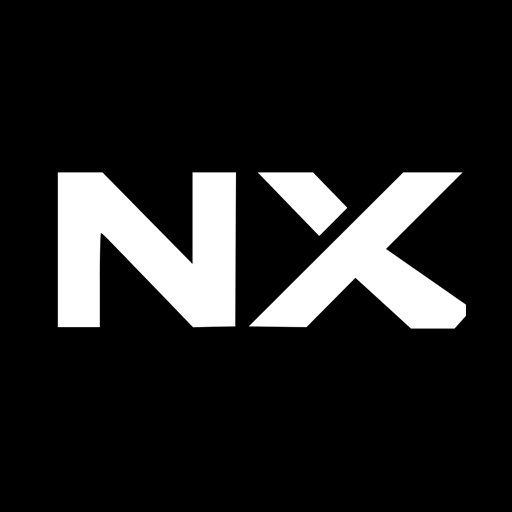
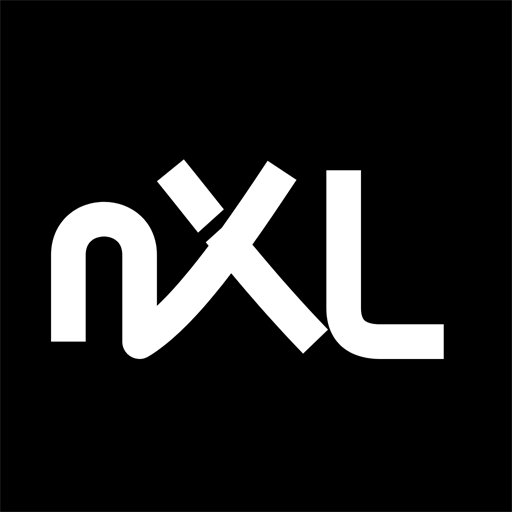
Ship the final NX LIMIT identity across the app

Changed region(s): [[0.0938, 0.3125, 0.9375, 0.7188]]

diff --git a/src/App.css b/src/App.css
@@ -4209,7 +4209,7 @@ body {
   right: 8px;
   width: 22px;
   height: 22px;
-  background-image: url("/icon-192.png");
+  background-image: url("/brand/nxl-monogram-black.svg");
   background-size: contain;
   background-repeat: no-repeat;
   background-position: center;
@@ -11925,9 +11925,8 @@ input[type="date"]:disabled::-webkit-calendar-picker-indicator {
 /* Uniform Warm App Grey (#E8E6DF) on every Overview section header. */
 .overviewGrid > .profileCard .profileMetricsHeader { background: #e8e6df !important; }
 
-/* Sidebar brand: white NØLIMIT wordmark on a black plate with a hand-set
-   "Built for Training" tagline beneath. Collapses to the white NL monogram on
-   the hover-narrowed desktop rail. */
+/* Sidebar brand: refined NX//LIMIT wordmark with the "Built for Training"
+   signature beneath. The narrow desktop rail uses the transparent NXL mark. */
 .brandPlate {
   display: flex;
   flex-direction: column;
@@ -11946,6 +11945,10 @@ input[type="date"]:disabled::-webkit-calendar-picker-indicator {
 .brandPlate .brandWordmarkImg {
   max-width: 168px;
   filter: drop-shadow(0 5px 12px rgba(18, 18, 16, 0.1));
+}
+
+.app:not(.clientPortalApp) .sidebar .brandTagline {
+  color: #292822;
 }
 
 /* thin gold hairline between wordmark and tagline for a sealed, premium feel */
@@ -13291,7 +13294,22 @@ input[type="date"]:disabled::-webkit-calendar-picker-indicator {
   backdrop-filter: blur(14px);
   border-bottom: 1px solid rgba(14, 14, 13, 0.08);
 }
+.lv3Brand {
+  display: inline-flex;
+  flex-direction: column;
+  align-items: center;
+  gap: 4px;
+}
 .lv3Brand img { height: 32px; display: block; }
+.lv3BrandTagline {
+  color: #5f5d56;
+  font-size: 8px;
+  font-weight: 750;
+  letter-spacing: 0.18em;
+  line-height: 1;
+  text-transform: uppercase;
+  white-space: nowrap;
+}
 .lv3NavLinks { display: flex; gap: 28px; }
 .lv3NavLinks a { color: #44443e; font-weight: 600; font-size: 0.95rem; }
 .lv3NavLinks a:hover { color: #0e0e0d; }
@@ -13735,15 +13753,17 @@ input[type="date"]:disabled::-webkit-calendar-picker-indicator {
      off-screen (page overflowed ~37px at 390px). */
   .lv3Nav { gap: 10px; padding: 12px 14px; }
   .lv3Brand img { height: 24px; }
+  .lv3BrandTagline { font-size: 6px; letter-spacing: 0.13em; }
   .lv3Lang span { padding: 5px 9px; font-size: 0.72rem; }
   .lv3NavCta { padding: 8px 13px; font-size: 0.8rem; white-space: nowrap; }
 }
 
 @media (max-width: 374px) {
-  /* The NØLIMIT wordmark is ~6.4:1 wide — at 20px tall it alone eats 129px
-     of a 320px row, so everything steps down another notch here. */
+  /* The NX//LIMIT wordmark is wide, so compact controls step down another
+     notch here to keep the full 320px navigation row in view. */
   .lv3Nav { gap: 6px; padding: 10px 8px; }
   .lv3Brand img { height: 20px; }
+  .lv3BrandTagline { font-size: 5.5px; }
   .lv3Lang span { padding: 4px 7px; font-size: 0.68rem; }
   .lv3NavCta { padding: 7px 10px; font-size: 0.74rem; }
 }

diff --git a/src/App.tsx b/src/App.tsx
@@ -39,7 +39,11 @@ import {
 } from "react";
 import { useTranslation } from "react-i18next";
 import "./App.css";
-import { BRAND_LOGO_48, BRAND_WORDMARK_48 } from "./brandAssets";
+import {
+  BRAND_MONOGRAM_BLACK,
+  BRAND_MONOGRAM_WHITE,
+  BRAND_WORDMARK_BLACK,
+} from "./brandAssets";
 
 // Charts are lazy-loaded so recharts stays out of the main bundle.
 const RevenueChart = lazy(() => import("./RevenueChart"));
@@ -13943,7 +13947,7 @@ function App({ onReady }: { onReady?: () => void } = {}) {
         draw();
       };
       logo.onerror = () => draw();
-      logo.src = BRAND_LOGO_48;
+      logo.src = BRAND_MONOGRAM_BLACK;
     });
 
   const openFinisherCard = async (payload: {
@@ -18442,7 +18446,7 @@ function App({ onReady }: { onReady?: () => void } = {}) {
         <section className="clientPortalEmpty">
           <div className="brandWordmark brandLogoLockup">
             <img
-              src={BRAND_LOGO_48}
+              src={BRAND_WORDMARK_BLACK}
               alt="NX LIMIT Training"
               className="brandWordmarkImage"
             />
@@ -19197,14 +19201,14 @@ function App({ onReady }: { onReady?: () => void } = {}) {
         <div className="brand">
           <div className="brandPlate">
             <img
-              src={BRAND_WORDMARK_48}
+              src={BRAND_WORDMARK_BLACK}
               alt="NX LIMIT Training"
               className="brandWordmarkImg"
             />
             <span className="brandTagline">Built for Training</span>
           </div>
           <img
-            src="/icon-192.png"
+            src={BRAND_MONOGRAM_BLACK}
             alt="NX LIMIT"
             className="brandCollapsedSeal"
           />
@@ -19326,7 +19330,7 @@ function App({ onReady }: { onReady?: () => void } = {}) {
             }
           >
             <div className="avatar monogramAvatar">
-              <img src="/icon-192.png" alt="" aria-hidden="true" />
+              <img src={BRAND_MONOGRAM_WHITE} alt="" aria-hidden="true" />
             </div>
             <div className="coachBoxMeta">
               <strong>
@@ -21262,7 +21266,7 @@ function App({ onReady }: { onReady?: () => void } = {}) {
                     ))}
                   </div>
                   <div className="workoutSummaryCrest">
-                    <img src="/icon-192.png" alt="" />
+                    <img src={BRAND_MONOGRAM_WHITE} alt="" />
                   </div>
                   <h2 className="workoutSummaryTitle">
                     {paceZh ? "训练完成" : "Workout Complete"}

diff --git a/src/StorePage.tsx b/src/StorePage.tsx
@@ -28,7 +28,7 @@ import "@fontsource/inter/600.css";
 import "@fontsource/inter/700.css";
 import "./StorePage.css";
 import "./StorePageV3.css";
-import { BRAND_WORDMARK_48 } from "./brandAssets";
+import { BRAND_MONOGRAM_WHITE, BRAND_WORDMARK_BLACK } from "./brandAssets";
 import { reportClientEvent } from "./telemetry";
 import type { Client, Coach, Program, ProgramReview, Toast } from "./appCore";
 import { glanceRepsToken } from "./appCore";
@@ -422,7 +422,7 @@ export default function StorePage({
 
       <nav className="storeNavV3">
         <a className="storeBrandV3" href="/">
-          <img src={BRAND_WORDMARK_48} alt="NX LIMIT Training" />
+          <img src={BRAND_WORDMARK_BLACK} alt="NX LIMIT Training" />
         </a>
         <div className="storeNavLinksV3">
           <a href="#featured" className="storeNavLinkV3">{sZh ? "计划" : "Programs"}</a>
@@ -1412,7 +1412,7 @@ export default function StorePage({
                     <img src={sp.productImage} alt={spName} />
                   ) : (
                     <div className="storeModalFallbackV2">
-                      <img src="/icon-192.png" alt="NX LIMIT" />
+                      <img src={BRAND_MONOGRAM_WHITE} alt="NX LIMIT" />
                     </div>
                   )}
                 </div>
@@ -1981,7 +1981,7 @@ export default function StorePage({
       })()}
 
       <footer className="storeFooterV3">
-        <img src={BRAND_WORDMARK_48} alt="NX LIMIT Training" />
+        <img src={BRAND_WORDMARK_BLACK} alt="NX LIMIT Training" />
         <div className="storeFooterLinksV3">
           <a href="#catalog">{sZh ? "计划" : "Programs"}</a>
           <a href="#coach">{sZh ? "教练" : "Coaching"}</a>

diff --git a/src/brandAssets.ts b/src/brandAssets.ts
@@ -1,11 +1,6 @@
-// Canonical 48-degree identity assets. Vite fingerprints these source vectors
-// for production while keeping the editable masters in the branding folder.
-export const BRAND_LOGO_48 = new URL(
-  "../branding/Source vector files/NX LIMIT Training Lean 48 Trial.svg",
-  import.meta.url,
-).href;
-
-export const BRAND_WORDMARK_48 = new URL(
-  "../branding/Source vector files/NX LIMIT Small-Use Lean 48 Trial.svg",
-  import.meta.url,
-).href;
+// Final production identity. Keep both tonal variants explicit so transparent
+// artwork can sit naturally on light and dark UI without a boxed background.
+export const BRAND_MONOGRAM_BLACK = "/brand/nxl-monogram-black.svg";
+export const BRAND_MONOGRAM_WHITE = "/brand/nxl-monogram-white.svg";
+export const BRAND_WORDMARK_BLACK = "/brand/nx-limit-wordmark-black.svg";
+export const BRAND_WORDMARK_WHITE = "/brand/nx-limit-wordmark-white.svg";

diff --git a/src/CoachingFlowPage.tsx b/src/CoachingFlowPage.tsx
@@ -7,7 +7,7 @@
 import { useEffect, useMemo, useState } from "react";
 import "./CoachingFlowPage.css";
 import { reportClientEvent } from "./telemetry";
-import { BRAND_WORDMARK_48 } from "./brandAssets";
+import { BRAND_WORDMARK_BLACK } from "./brandAssets";
 import { makePaymentCode } from "./appCore";
 
 type Step = "commitment" | "qualifier" | "payment" | "onboarding" | "done";
@@ -252,7 +252,7 @@ export default function CoachingFlowPage() {
         {/* top bar */}
         <div className="cfpTop">
           <div className="cfpBrand">
-            <img className="cfpLogo" src={BRAND_WORDMARK_48} alt="NX LIMIT Training" />
+            <img className="cfpLogo" src={BRAND_WORDMARK_BLACK} alt="NX LIMIT Training" />
             <span className="cfpBadge">{t("1:1 COACHING", "一对一私教")}</span>
           </div>
           <div className="cfpTopRight">

diff --git a/src/LandingPage.tsx b/src/LandingPage.tsx
@@ -19,7 +19,7 @@ import {
   type Variants,
 } from "framer-motion";
 import type { Program, Toast } from "./appCore";
-import { BRAND_WORDMARK_48 } from "./brandAssets";
+import { BRAND_WORDMARK_BLACK } from "./brandAssets";
 
 // Confident, weighty easing (ease-out-expo) — reads as strong, not bouncy.
 const EASE: [number, number, number, number] = [0.16, 1, 0.3, 1];
@@ -251,7 +251,8 @@ export default function LandingPage({
         transition={{ duration: 0.6, ease: EASE }}
       >
         <a className="lv3Brand" href="/">
-          <img src={BRAND_WORDMARK_48} alt="NX LIMIT Training" />
+          <img src={BRAND_WORDMARK_BLACK} alt="NX LIMIT" />
+          <span className="lv3BrandTagline">Built for Training</span>
         </a>
         <nav className="lv3NavLinks">
           <a href="/store">{landingCopy.navPrograms}</a>

diff --git a/src/PortalWelcome.tsx b/src/PortalWelcome.tsx
@@ -1,6 +1,6 @@
 // Post-intake welcome / program-loading overlay. Extracted from App.tsx.
 import "./PortalWelcome.css";
-import { BRAND_LOGO_48 } from "./brandAssets";
+import { BRAND_MONOGRAM_BLACK } from "./brandAssets";
 /* eslint-disable @typescript-eslint/no-explicit-any */
 
 export default function PortalWelcome({
@@ -28,7 +28,7 @@ export default function PortalWelcome({
       </div>
       <section className="portalWelcome">
         <div className="portalWelcomeBrand">
-          <img src={BRAND_LOGO_48} alt="NX LIMIT Training" className="portalWelcomeMonogram" />
+          <img src={BRAND_MONOGRAM_BLACK} alt="NX LIMIT" className="portalWelcomeMonogram" />
         </div>
 
         {portalAutoLoading ? (

diff --git a/src/InPersonEnquiryPage.tsx b/src/InPersonEnquiryPage.tsx
@@ -1,7 +1,7 @@
 // Extracted from App.tsx (monolith split) — JSX verbatim, props threaded.
 import "./InPersonEnquiryPage.css";
 import { useState } from "react";
-import { BRAND_LOGO_48 } from "./brandAssets";
+import { BRAND_WORDMARK_BLACK } from "./brandAssets";
 /* eslint-disable @typescript-eslint/no-explicit-any */
 
 export default function InPersonEnquiryPage({
@@ -32,7 +32,7 @@ export default function InPersonEnquiryPage({
           <div>
             <div className="brandWordmark brandLogoLockup">
               <img
-                src={BRAND_LOGO_48}
+                src={BRAND_WORDMARK_BLACK}
                 alt="NX LIMIT Training"
                 className="brandWordmarkImage"
               />

diff --git a/src/LegalPage.tsx b/src/LegalPage.tsx
@@ -1,6 +1,6 @@
 import { ArrowLeft, ShieldCheck } from "lucide-react";
 import "./LegalPage.css";
-import { BRAND_WORDMARK_48 } from "./brandAssets";
+import { BRAND_WORDMARK_BLACK } from "./brandAssets";
 
 type LegalKind = "privacy" | "terms" | "refund" | "business";
 
@@ -38,7 +38,7 @@ export default function LegalPage({
     <div className={`legalPage ${zh ? "zh" : "en"}`}>
       <header className="legalNav">
         <a className="legalBrand" href="/">
-          <img src={BRAND_WORDMARK_48} alt="NX LIMIT Training" />
+          <img src={BRAND_WORDMARK_BLACK} alt="NX LIMIT Training" />
         </a>
         <div className="legalNavActions">
           <a href="/store">{zh ? "训练计划" : "Programs"}</a>

diff --git a/src/ClientInvitePage.tsx b/src/ClientInvitePage.tsx
@@ -1,7 +1,7 @@
 // Extracted from App.tsx (monolith split) — JSX verbatim, props threaded.
 import "./ClientInvitePage.css";
 import { useState } from "react";
-import { BRAND_LOGO_48 } from "./brandAssets";
+import { BRAND_WORDMARK_BLACK } from "./brandAssets";
 /* eslint-disable @typescript-eslint/no-explicit-any */
 
 export default function ClientInvitePage({
@@ -39,7 +39,7 @@ export default function ClientInvitePage({
           <div>
             <div className="brandWordmark brandLogoLockup">
               <img
-                src={BRAND_LOGO_48}
+                src={BRAND_WORDMARK_BLACK}
                 alt="NX LIMIT Training"
                 className="brandWordmarkImage"
               />

diff --git a/src/SplashScreen.tsx b/src/SplashScreen.tsx
@@ -1,6 +1,6 @@
 import { useEffect, useRef, useState } from "react";
 import "./SplashScreen.css";
-import { BRAND_LOGO_48 } from "./brandAssets";
+import { BRAND_WORDMARK_BLACK } from "./brandAssets";
 
 type Props = {
   /** Controlled 0–100 progress. Overrides both tracked and timed modes. */
@@ -92,7 +92,7 @@ export default function SplashScreen({ progress, done, onFinish }: Props) {
 
   return (
     <div className="nlSplash">
-      <img className="nlSplash__logo" src={BRAND_LOGO_48} alt="NX LIMIT Training" />
+      <img className="nlSplash__logo" src={BRAND_WORDMARK_BLACK} alt="NX LIMIT Training" />
 
       <div className="nlSplash__bars">
         {bars.map((h, i) => (

diff --git a/src/Celebration.tsx b/src/Celebration.tsx
@@ -1,6 +1,6 @@
 import { useEffect, useMemo, useRef, useState } from "react";
 import "./Celebration.css";
-import { BRAND_LOGO_48 } from "./brandAssets";
+import { BRAND_MONOGRAM_BLACK } from "./brandAssets";
 
 export type CelebrationVariant = "fistbump" | "highfive" | "thumbsup";
 
@@ -109,7 +109,7 @@ export default function Celebration({
 
   return (
     <div className={`cel cel--${variant}`}>
-      <img className="cel__logo" src={BRAND_LOGO_48} alt="NX LIMIT Training" />
+      <img className="cel__logo" src={BRAND_MONOGRAM_BLACK} alt="NX LIMIT Training" />
 
       {variant === "highfive" && (
         <div className="cel__rain">
